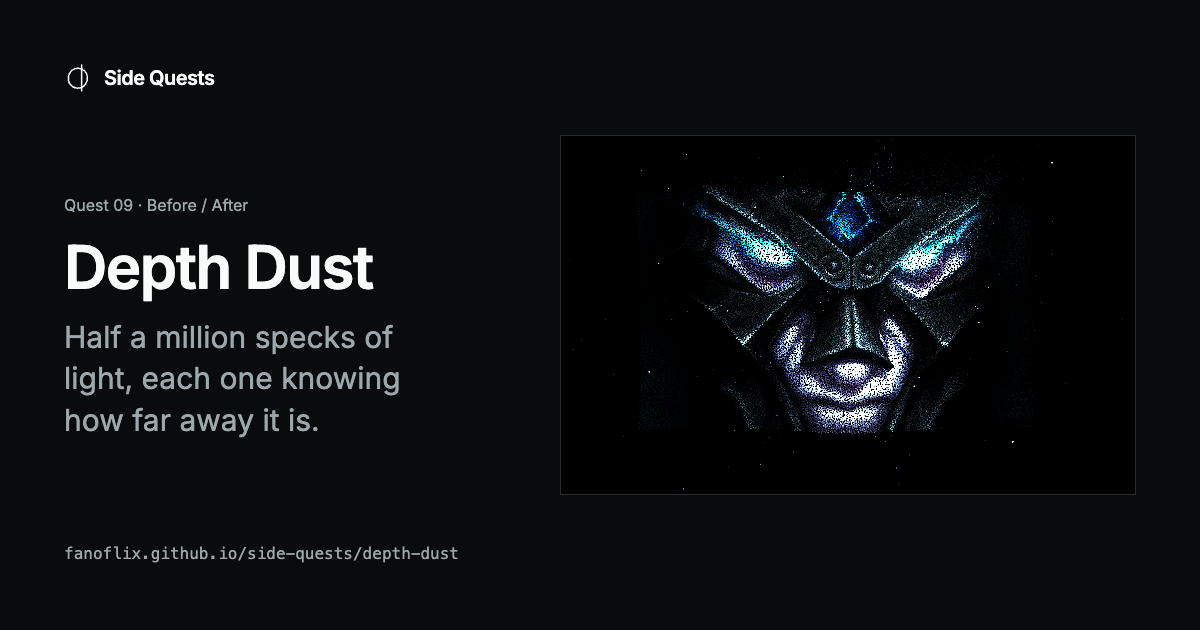
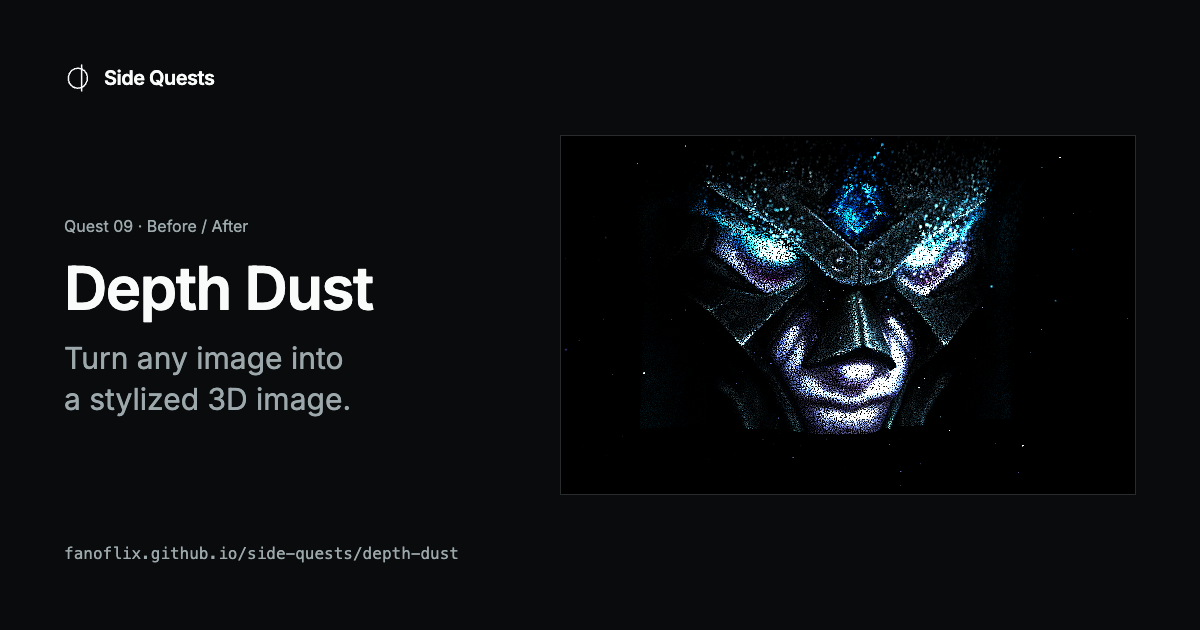
Depth Dust headline: Turn any image into a stylized 3D image
The tool page, the home card and the link preview now lead with what it
does, and the unfurl text follows. Link preview image regenerated.

Changed region(s): [[0.0308, 0.3016, 0.3392, 0.6937], [0.5858, 0.2413, 0.8325, 0.6937]]

diff --git a/src/features/nav/tools.ts b/src/features/nav/tools.ts
@@ -231,9 +231,9 @@ export const tools: Tool[] = [
     title: "Depth Dust",
     icon: Orbit,
     category: CATEGORIES.canvas,
-    hook: "Half a million specks of light, each one knowing how far away it is.",
+    hook: "Turn any image into a stylized 3D image.",
     description:
-      "Half a million specks of light, each one knowing how far away it is. Drop in any picture and watch it drift apart in 3D.",
+      "Turn any image into a stylized 3D image: half a million specks of light, each pushed towards you by how close it is.",
     added: "Oct 2026",
     keywords: [
       "point cloud",

diff --git a/src/features/canvas-stuff/depth-dust/DepthDust.tsx b/src/features/canvas-stuff/depth-dust/DepthDust.tsx
@@ -52,7 +52,7 @@ export function DepthDust() {
           </>
         }
       >
-        Half a million specks of light, each one knowing how far away it is.
+        Turn any image into a stylized 3D image.
       </ToolIntro>
 
       <ToolStage
